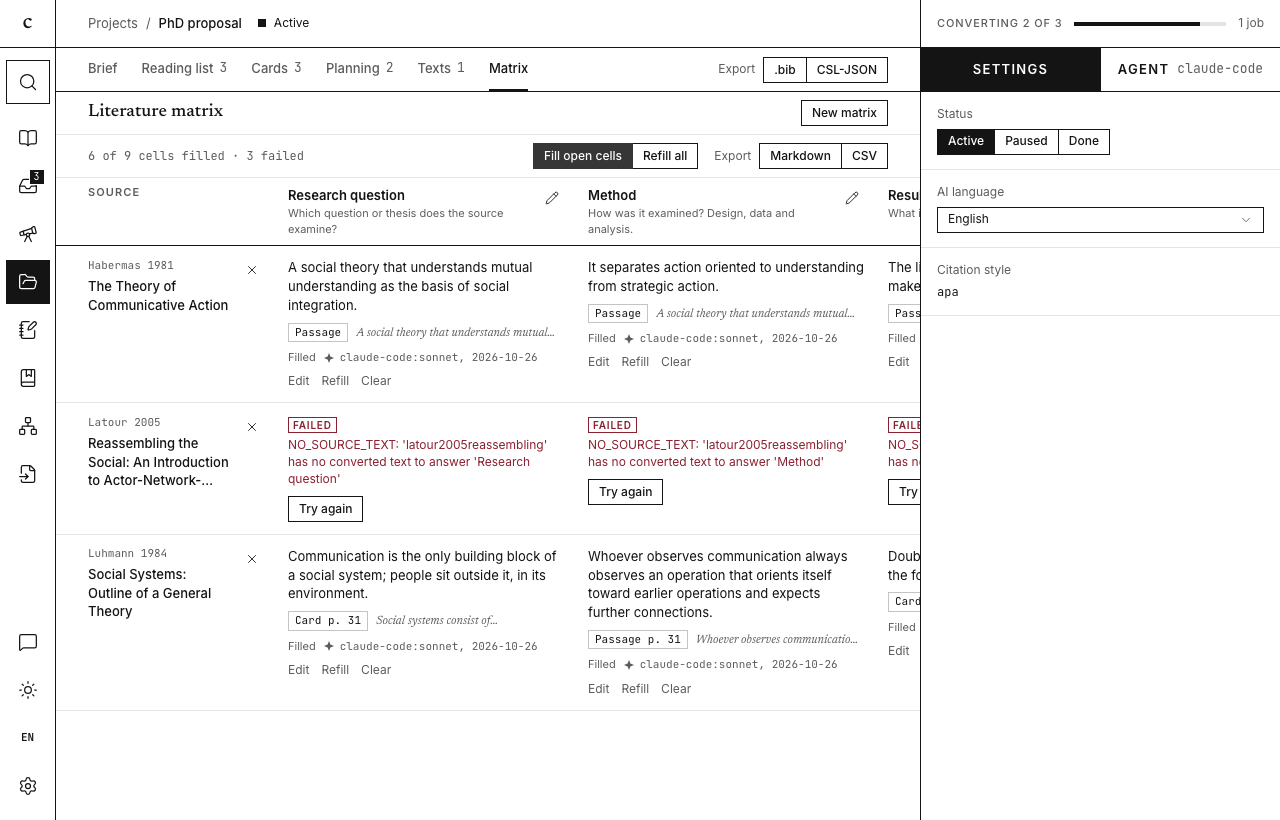
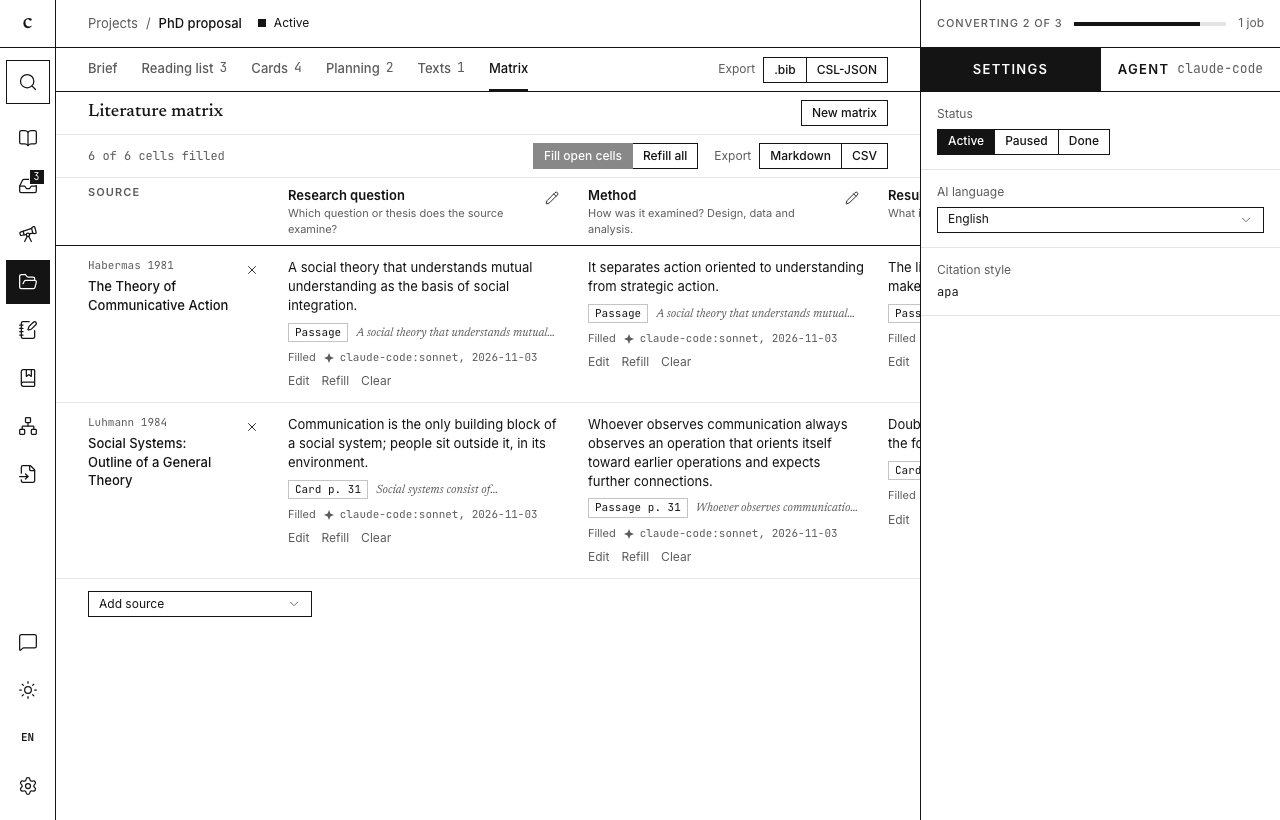
README: matrix screenshot with every cell filled

diff --git a/README.md b/README.md
@@ -78,7 +78,7 @@ Notes are Markdown files with wiki links, and the library folder opens as an Obs
 A project holds research questions, a reading list, cards and research plans with an outline. The literature matrix compares sources against your questions. The AI fills each cell from passages of that source and names the card or passage it rests on, and citegeist checks every evidence quote against the stored text.
 
 <p align="center">
-  <img src="docs/design/screens/project-matrix.png" alt="A literature matrix with three sources as rows and the columns Research question, Method and Result. Each filled cell names the card or passage it rests on, and a source without converted text shows failed cells with a Try again button." width="900">
+  <img src="docs/design/screens/project-matrix.png" alt="A literature matrix with two sources as rows and the columns Research question, Method and Result. Each filled cell names the card or passage it rests on." width="900">
 </p>
 
 ## Writing and export
